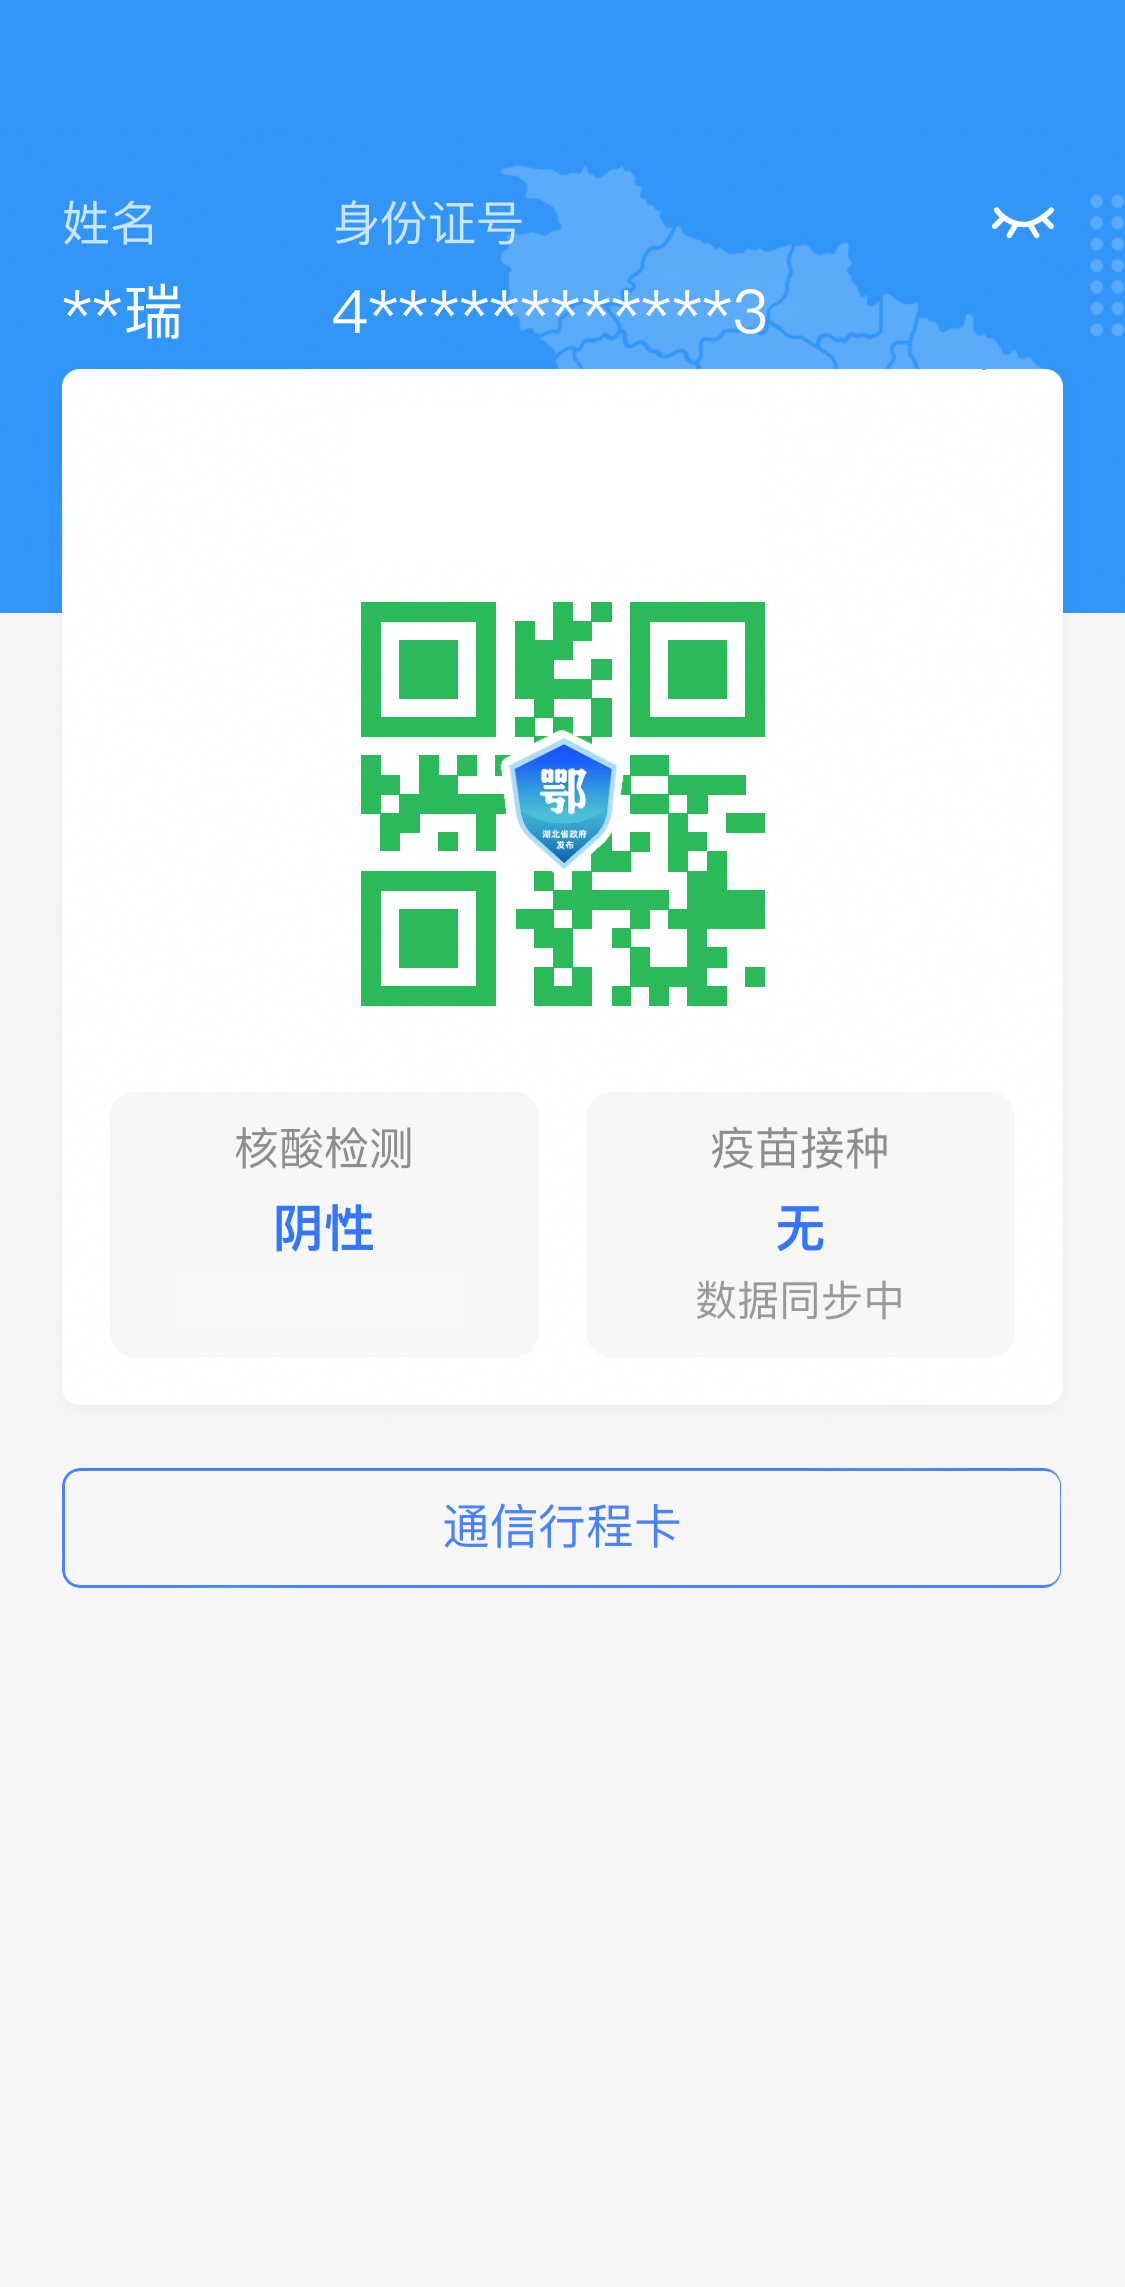
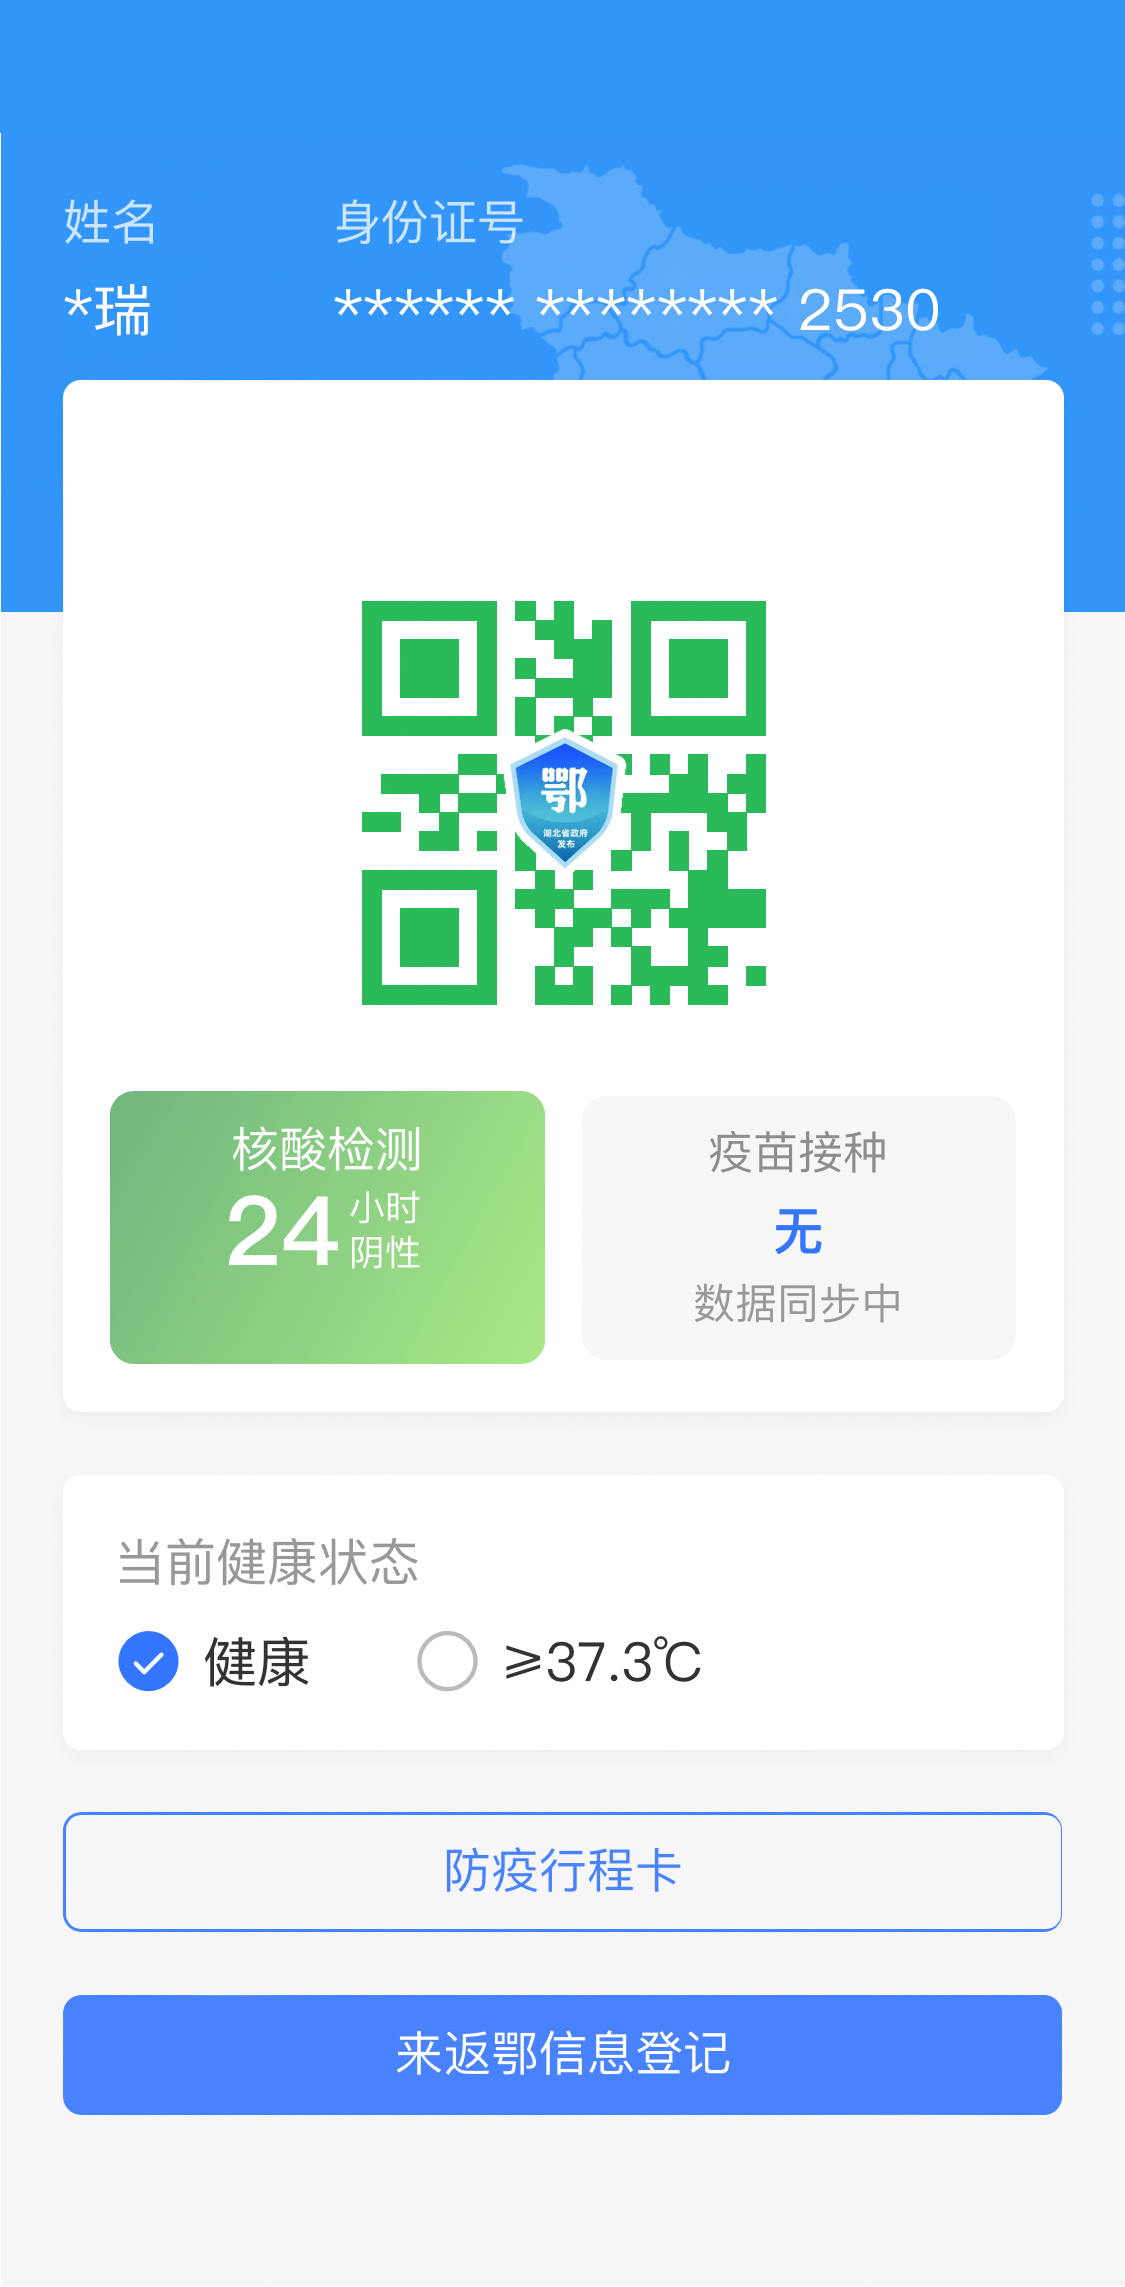
Add files via upload

diff --git a/index.html b/index.html
@@ -7,30 +7,37 @@
     <meta name="format-detection" content="telephone=no" /> 
     <meta name="apple-mobile-web-app-capable" content="yes" />
     <meta name="apple-mobile-web-app-status-bar-style" content="default" />
+    <link rel="apple-touch-icon-precomposed" sizes="any" href="empty/apple-touch-icon.png" />
+    <link rel="icon" type="image/png" sizes="any"  href="empty/apple-touch-icon.png" />
     <meta name="viewport" content="width=device-width,user-scalable=no,initial-scale=1,maximum-scale=1,minimum-scale=1" />
-    <title>&#x4e00&#x7801&#x901a&#x884c</title>
+    <title>&#x6e56&#x5317&#x573a&#x6240&#x7801</title>
     <style>
-        *{
+        * {
             padding: 0;
             margin: 0;
-            font-family: "PingFang SC",Helvetica,Arial,sans-serif;
+            font-family: "PingFang SC", sans-serif;
         }
-        html,body{
+        html,body {
             background-color: #f4f4f6;
         }
-        img{
+        img {
             display: block;
             width: 100%;
             height: auto;
             user-select: none;
         }
-        .header{
+        .header {
             position: fixed;
             display: flex;
             width: 100%;
             z-index: 999;
         }
-        .content{
+        .io {
+            display: inline;
+            position: absolute;
+            top: -50px;
+        }
+        .content {
             position: relative;
             width: 100%;
             z-index: 1;
@@ -45,7 +52,17 @@
             width: 100%;
             z-index: 2;
         }
-        .name{
+        .cover-b {
+            position: absolute;
+            top: 79%;
+            bottom: 0;
+            left: 0;
+            right: 0;
+            height: 6%;
+            width: 100%;
+            z-index: 2;
+        }
+        .name {
             position: absolute;
             top: 18.1%;
             left: 0%;
@@ -54,34 +71,34 @@
             font-size: 0vw;
             text-align: center;
         }
-        .place{
+        .place {
             font-size: 4.3vw;
         }
-        .date{
+        .date {
             position: absolute;
-            top: 21.2%;
+            top: 21.3%;
             left: 0%;
             width: 100%;
             font-size: 0vw;
             text-align: center;
         }
-        #before-sec{
+        #before-sec {
             font-size: 3.9vw;
             color: #5fb063;
             user-select: none;
         }
-        #sec{
+        #sec {
             font-size: 3.9vw;
             color: #5fb063;
             user-select: none;
         }
-        #test{
+        #test {
             position: absolute;
-            top: 55.6%;
+            top: 56.3%;
             left: 9.2%;
             width: 39.5%;
-            color: #333333;
-            font-size: 3.8vw;
+            color: #ffffff;
+            font-size: 3.1vw;
             user-select: none;
             text-align: center;
         }
@@ -93,11 +110,13 @@
         <img src="./empty/head.png" />
     </header>
     <div class="content">
+        <img class="io" id="io" src="./empty/io.png" />
         <img src="./empty/content.png" />
         <div class="cover-a"></div>
+        <div class="cover-b" onclick="enter()"></div>
         <div class="text">
             <div class="name">
-                <span contenteditable="true" class="place">&#x5df2&#x767b&#x8bb0</span>
+                <span contenteditable="true" class="place" id="place">&#x5df2&#x767b&#x8bb0</span>
             </div>
             <div class="date">
                 <span id="before-sec">10-27 15:23:</span>
@@ -117,14 +136,6 @@
         let min = (d.getMinutes() < 10) ? ("0" + d.getMinutes()) : d.getMinutes();
         let sec = (d.getSeconds() < 10) ? ("0" + d.getSeconds()) : d.getSeconds();
         document.getElementById("before-sec").innerHTML = (month + "-" + date + " " + hour + ":" + min + ":");
-    }
-    function showSec(){
-        let d = new Date();
-        let month = ((d.getMonth() + 1) < 10) ? ("0" + (d.getMonth() + 1)) : (d.getMonth() + 1);
-        let date = (d.getDate() < 10) ? ("0" + d.getDate()) : d.getDate();
-        let hour = (d.getHours() < 10) ? ("0" + d.getHours()) : d.getHours();
-        let min = (d.getMinutes() < 10) ? ("0" + d.getMinutes()) : d.getMinutes();
-        let sec = (d.getSeconds() < 10) ? ("0" + d.getSeconds()) : d.getSeconds();
         document.getElementById("sec").innerHTML = (sec);
     }
     function showTest(){
@@ -138,8 +149,18 @@
         min = (min < 10) ? ("0" + min) : min;
         document.getElementById("test").innerHTML = (d.getFullYear() + "-" + month + "-" + dateFull);
     }
+    function enter(){
+        document.getElementById("io").style.display = "none";
+    }
+
     showTest()
     setInterval(showDate, 1000)
-    setInterval(showSec, 1000)
+
+    let urlParams = new URLSearchParams(window.location.search);
+    if(urlParams.get("id")) {
+        if(urlParams.get("id") == "356F8CB14A4C44AE9A6DEF45868696EF") {
+            document.getElementById("place").textContent = "\u9510\u521b\u4e2d\u5fc3";
+        }
+    }
 </script>
 </html>
